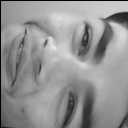
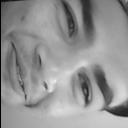
Función TranspuestaInversa arreglado.

diff --git a/Modificar.cs b/Modificar.cs
@@ -40,7 +40,7 @@ namespace MatrixIMG
             if (modMatrix.GetLength(0) == 0) return modMatrix;
             int[,] tempMatrix = new int[modMatrix.GetLength(0), modMatrix.GetLength(1)];
 
-            for (int j = modMatrix.GetLength(1) - 1; j >= 0; j--) // Igual que la transpuesta solamente que el arreglo empieza desde el último elemento del arreglo
+            for (int j = 0; j < modMatrix.GetLength(1); j++) // Igual que la transpuesta solamente que el arreglo empieza desde el último elemento del arreglo
             {
                 for (int i = modMatrix.GetLength(0) - 1; i >= 0; i--)
                 {
@@ -49,7 +49,7 @@ namespace MatrixIMG
                     Console.Write(pix + " ");
                     try
                     {
-                        tempMatrix[modMatrix.GetLength(0) - j, modMatrix.GetLength(1) - i] = modMatrix[i, j];
+                        tempMatrix[modMatrix.GetLength(1) - i, j] = pixel;
                     }
                     catch { }
                 }
@@ -94,7 +94,7 @@ namespace MatrixIMG
                         modMatrix[j, i] = pixel;
                     }
                 }
-                Console.Write("\nEl ruuido agregado correctamente\n\n");
+                Console.Write("\nEl ruido ha sido agregado correctamente\n\n");
             }
             catch(FormatException ex)
             {
